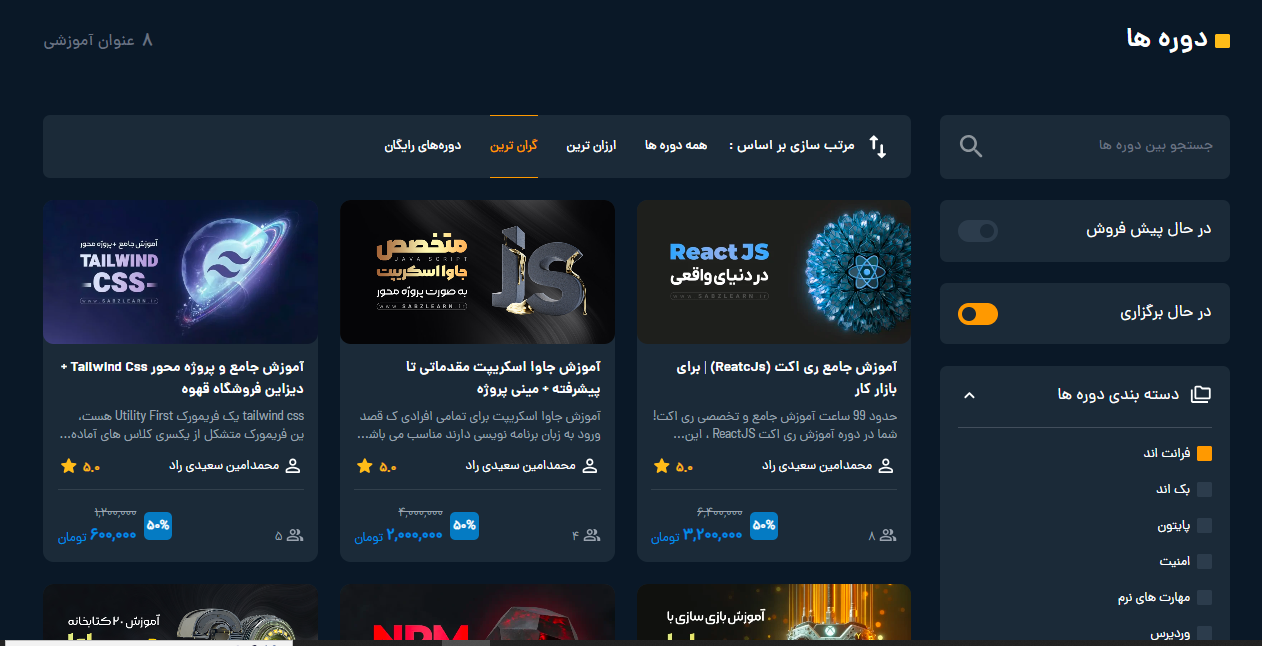
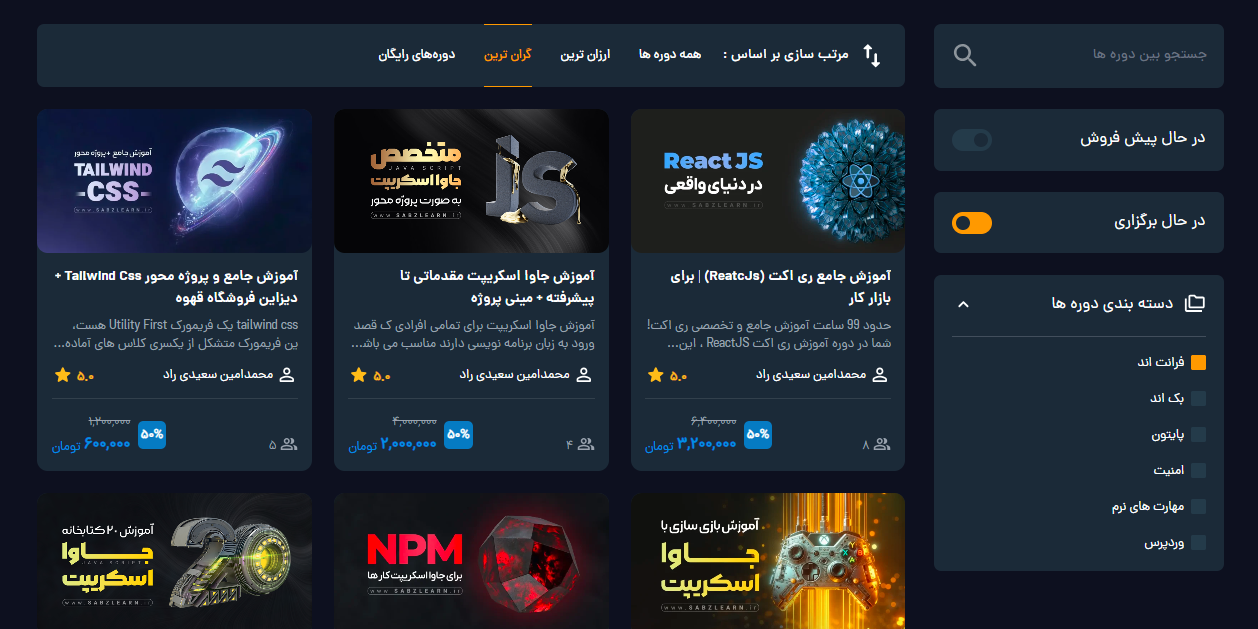
Update README.md file

diff --git a/frontend/tailwind.config.js b/frontend/tailwind.config.js
@@ -13,8 +13,8 @@ export default {
         'neut-seco': '#f3f4f6',
         // dark mode
         'd-neut-prim': '#1f2a38',
-        'd-neut-seco': '#0e1827',
-        'd-neut-ther': '#303c4c',
+        'd-neut-seco': '#0e101f',
+        'd-neut-ther': '#2a3a4a',
         // static colors | prim=#00b663
         'prim': '#008de5',
         'notf': '#f59e0b',
